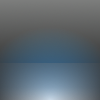
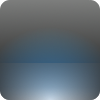
* Much work done on the achievement manager to get the achievement to display correctly, includes some debug work to be removed * Rework the achievement background image to include rounded borders * Set the draw order for achievement manager * Clarify a variable name in RenderSprite * Add the wet fe

diff --git a/Duologue/AchievementSystem/AchievementManager.cs b/Duologue/AchievementSystem/AchievementManager.cs
@@ -68,7 +68,7 @@ namespace Duologue.AchievementSystem
         private const string containerName = "Duologue";
 
         private const int possibleAchievements = 10;
-        private const float lifetime = 0.001f;
+        private const float lifetime = 0.128f;
 
         private float iconVerticalSize = 80f;
 
@@ -135,8 +135,8 @@ namespace Duologue.AchievementSystem
             unlockedYetToDisplay = new Queue<Achievement>(possibleAchievements);
             storageDeviceIsSet = false;
             dataVersion = 2;
-            alpha_Achievement = 0;
-            size_Achievement = 0;
+            alpha_Achievement = 1f;
+            size_Achievement = 1f;
             color_Text = Color.Bisque;
             color_Border = Color.SlateBlue;
         }
@@ -441,6 +441,8 @@ namespace Duologue.AchievementSystem
                     achievements[j].Displayed = false;
                     achievements[j].Unlocked = true;
                     unlockedYetToDisplay.Enqueue(achievements[j]);
+                    this.Enabled = true;
+                    this.Visible = true;
                 }
             }
         }
@@ -506,14 +508,15 @@ namespace Duologue.AchievementSystem
             if (currentDisplayed != null)
             {
                 timeSinceStart += (float)gameTime.ElapsedRealTime.TotalSeconds;
+                //Console.WriteLine("{0} < {1}", timeSinceStart, lifetime);
                 if (timeSinceStart > lifetime)
                 {
                     currentDisplayed.Displayed = true;
                     currentDisplayed = null;
-                    size_Achievement = 0f;
-                    alpha_Achievement = 0f;
+                    //size_Achievement = 0f;
+                    //alpha_Achievement = 0f;
                 }
-                else if (timeSinceStart / lifetime < timePercent_FadeIn)
+                /*else if (timeSinceStart / lifetime < timePercent_FadeIn)
                 {
                     alpha_Achievement = (timeSinceStart / lifetime) / timePercent_FadeIn;
                     size_Achievement = (1f - minSize) * (timeSinceStart / lifetime) / timePercent_FadeIn + minSize;
@@ -522,7 +525,7 @@ namespace Duologue.AchievementSystem
                 {
                     alpha_Achievement = 1f - (timeSinceStart / lifetime);
                     size_Achievement = 1f;
-                }
+                }*/
                 else
                 {
                     size_Achievement = 1f;
@@ -534,6 +537,12 @@ namespace Duologue.AchievementSystem
                 currentDisplayed = unlockedYetToDisplay.Dequeue();
                 timeSinceStart = 0f;
             }
+            /*else
+            {
+                this.Enabled = false;
+                this.Visible = false;
+            }*/
+
             base.Update(gameTime);
         }
 
@@ -541,21 +550,31 @@ namespace Duologue.AchievementSystem
         {
             if (render == null)
                 render = InstanceManager.RenderSprite;
+            
 
             if (currentDisplayed != null)
             {
+                render.Draw(
+                    texture_Background,
+                    Vector2.Zero,
+                    Vector2.Zero,
+                    null,
+                    color_Border,
+                    0f,
+                    1f,
+                    0f,
+                    RenderSpriteBlendMode.AbsoluteTop);
+
                 Vector2 textSize = font.MeasureString(currentDisplayed.Name);
                 float imageSize = iconVerticalSize / (float)currentDisplayed.Icon.Height;
                 Vector2 borderSize = new Vector2(
                     (textSize.X + currentDisplayed.Icon.Width * imageSize + 3f * horizSpacing) / (float)texture_Background.Width,
                     (currentDisplayed.Icon.Height * imageSize + 2f * vertSpacing) / (float)texture_Background.Height);
 
-                if (centerPos == Vector2.Zero)
-                {
-                    centerPos = new Vector2(
-                        InstanceManager.DefaultViewport.Width / 2f - borderSize.X/2f,
-                        (float)InstanceManager.DefaultViewport.TitleSafeArea.Bottom - borderSize.Y);
-                }
+                centerPos = new Vector2(
+                    InstanceManager.DefaultViewport.Width / 2f - (float)texture_Background.Width * borderSize.X / 2f,
+                    (float)InstanceManager.DefaultViewport.TitleSafeArea.Bottom - (float)texture_Background.Height * borderSize.Y);
+
                 // Draw border
                 render.Draw(
                     texture_Background,
@@ -573,12 +592,14 @@ namespace Duologue.AchievementSystem
                 render.DrawString(font,
                     currentDisplayed.Name,
                     centerPos
-                        + Vector2.UnitX * (2f * horizSpacing + (float)currentDisplayed.Icon.Width * iconVerticalSize)
-                        + Vector2.UnitY * vertSpacing,
+                        + Vector2.UnitX * (2f * horizSpacing + (float)currentDisplayed.Icon.Width * size_Achievement * imageSize)
+                        + Vector2.UnitY * (vertSpacing + (float)currentDisplayed.Icon.Height * size_Achievement * imageSize * 0.5f - textSize.Y/2f),
                     new Color(color_Text, alpha_Achievement),
                     Vector2.One * size_Achievement,
                     Vector2.Zero,
                     RenderSpriteBlendMode.AbsoluteTop);
+
+                //Console.WriteLine((float)currentDisplayed.Icon );
 
                 // Draw icon
                 render.Draw(

diff --git a/Duologue/Waves/GameWaveManager.cs b/Duologue/Waves/GameWaveManager.cs
@@ -94,6 +94,15 @@ namespace Duologue.Waves
         /// </summary>
         private GameWave GetWave(int lastMajorNumber, int lastMinorNumber)
         {
+            if ((float)lastMajorNumber / (float)waveDef.TotalNumberOfWaves > medal_WetFeet)
+            {
+                LocalInstanceManager.AchievementManager.UnlockAchievement(Achievements.WetFeet);
+            }
+            if ((float)lastMajorNumber / (float)waveDef.TotalNumberOfWaves > medal_Experienced)
+            {
+                LocalInstanceManager.AchievementManager.UnlockAchievement(Achievements.Experienced);
+            }
+
             int[] k = IncrementWaveNumbers(lastMajorNumber, lastMinorNumber);
             GameWave temp;
             try

diff --git a/Duologue/Mimicware/Graphics/RenderSprite.cs b/Duologue/Mimicware/Graphics/RenderSprite.cs
@@ -437,7 +437,7 @@ namespace Mimicware.Graphics
         internal void DrawString(
             SpriteFont font,
             string text,
-            Vector2 vector2,
+            Vector2 position,
             Color color,
             Vector2 scale,
             Vector2 cent,
@@ -446,7 +446,7 @@ namespace Mimicware.Graphics
             SpriteObject sobj = new SpriteObject(
                 font,
                 text,
-                vector2,
+                position,
                 color);
             sobj.Scale = scale;
             sobj.Center = cent;

diff --git a/Duologue/DuologueGame.cs b/Duologue/DuologueGame.cs
@@ -219,7 +219,10 @@ namespace Duologue
             bulletParticle.DrawOrder = 8;
 
             achievements = new AchievementManager(this);
+            achievements.Enabled = true;
+            achievements.Visible = true;
             this.Components.Add(achievements);
+            achievements.DrawOrder = 300;
 
             pauseScreen = new PauseScreen(this);
             pauseScreen.Enabled = false;

diff --git a/Duologue/Waves/WaveDefinitions.cs b/Duologue/Waves/WaveDefinitions.cs
@@ -59,6 +59,10 @@ namespace Duologue.Waves
         #endregion
 
         #region Properties
+        public int TotalNumberOfWaves
+        {
+            get { return numberOfWaves; }
+        }
         #endregion
 
         #region Constructor
